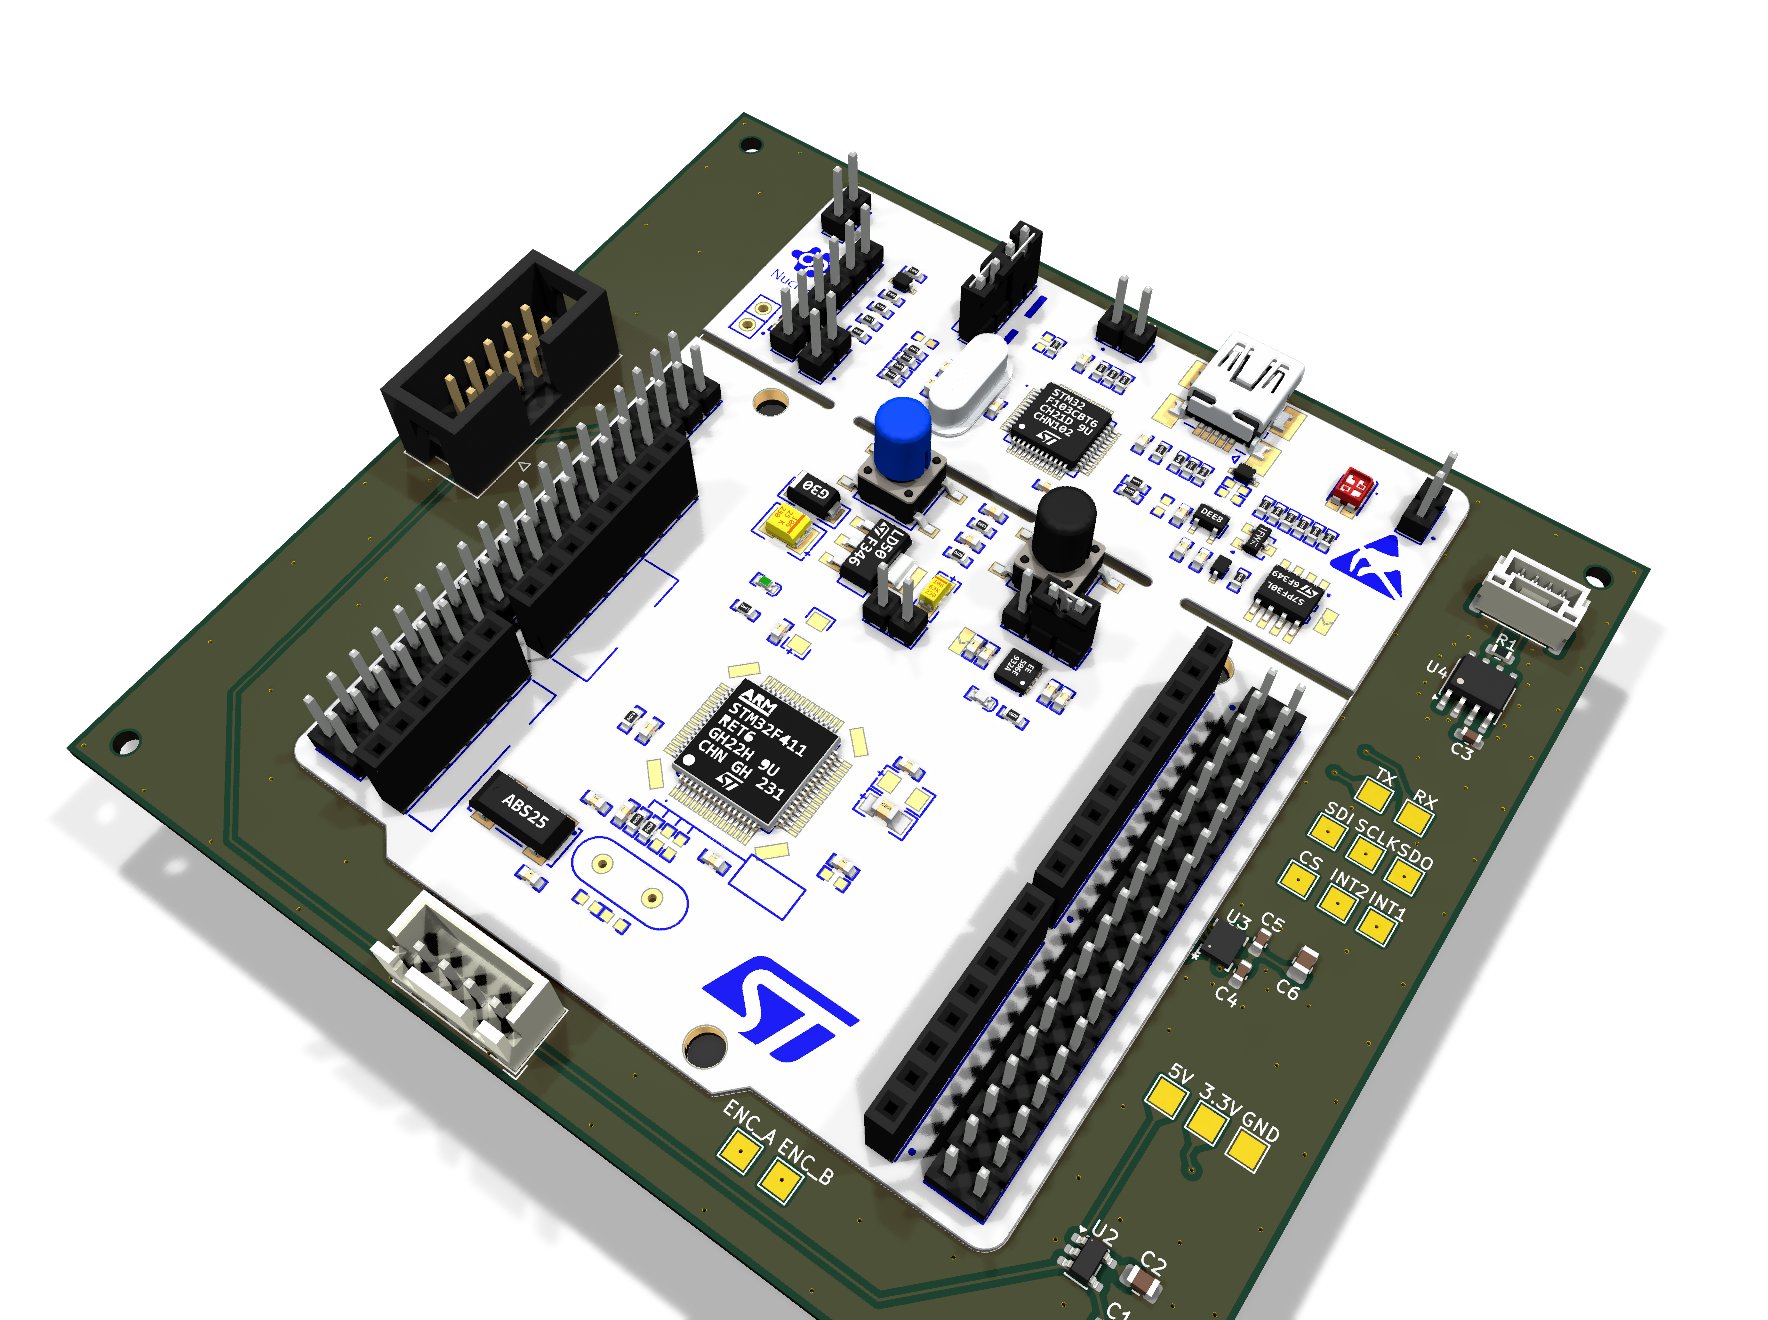
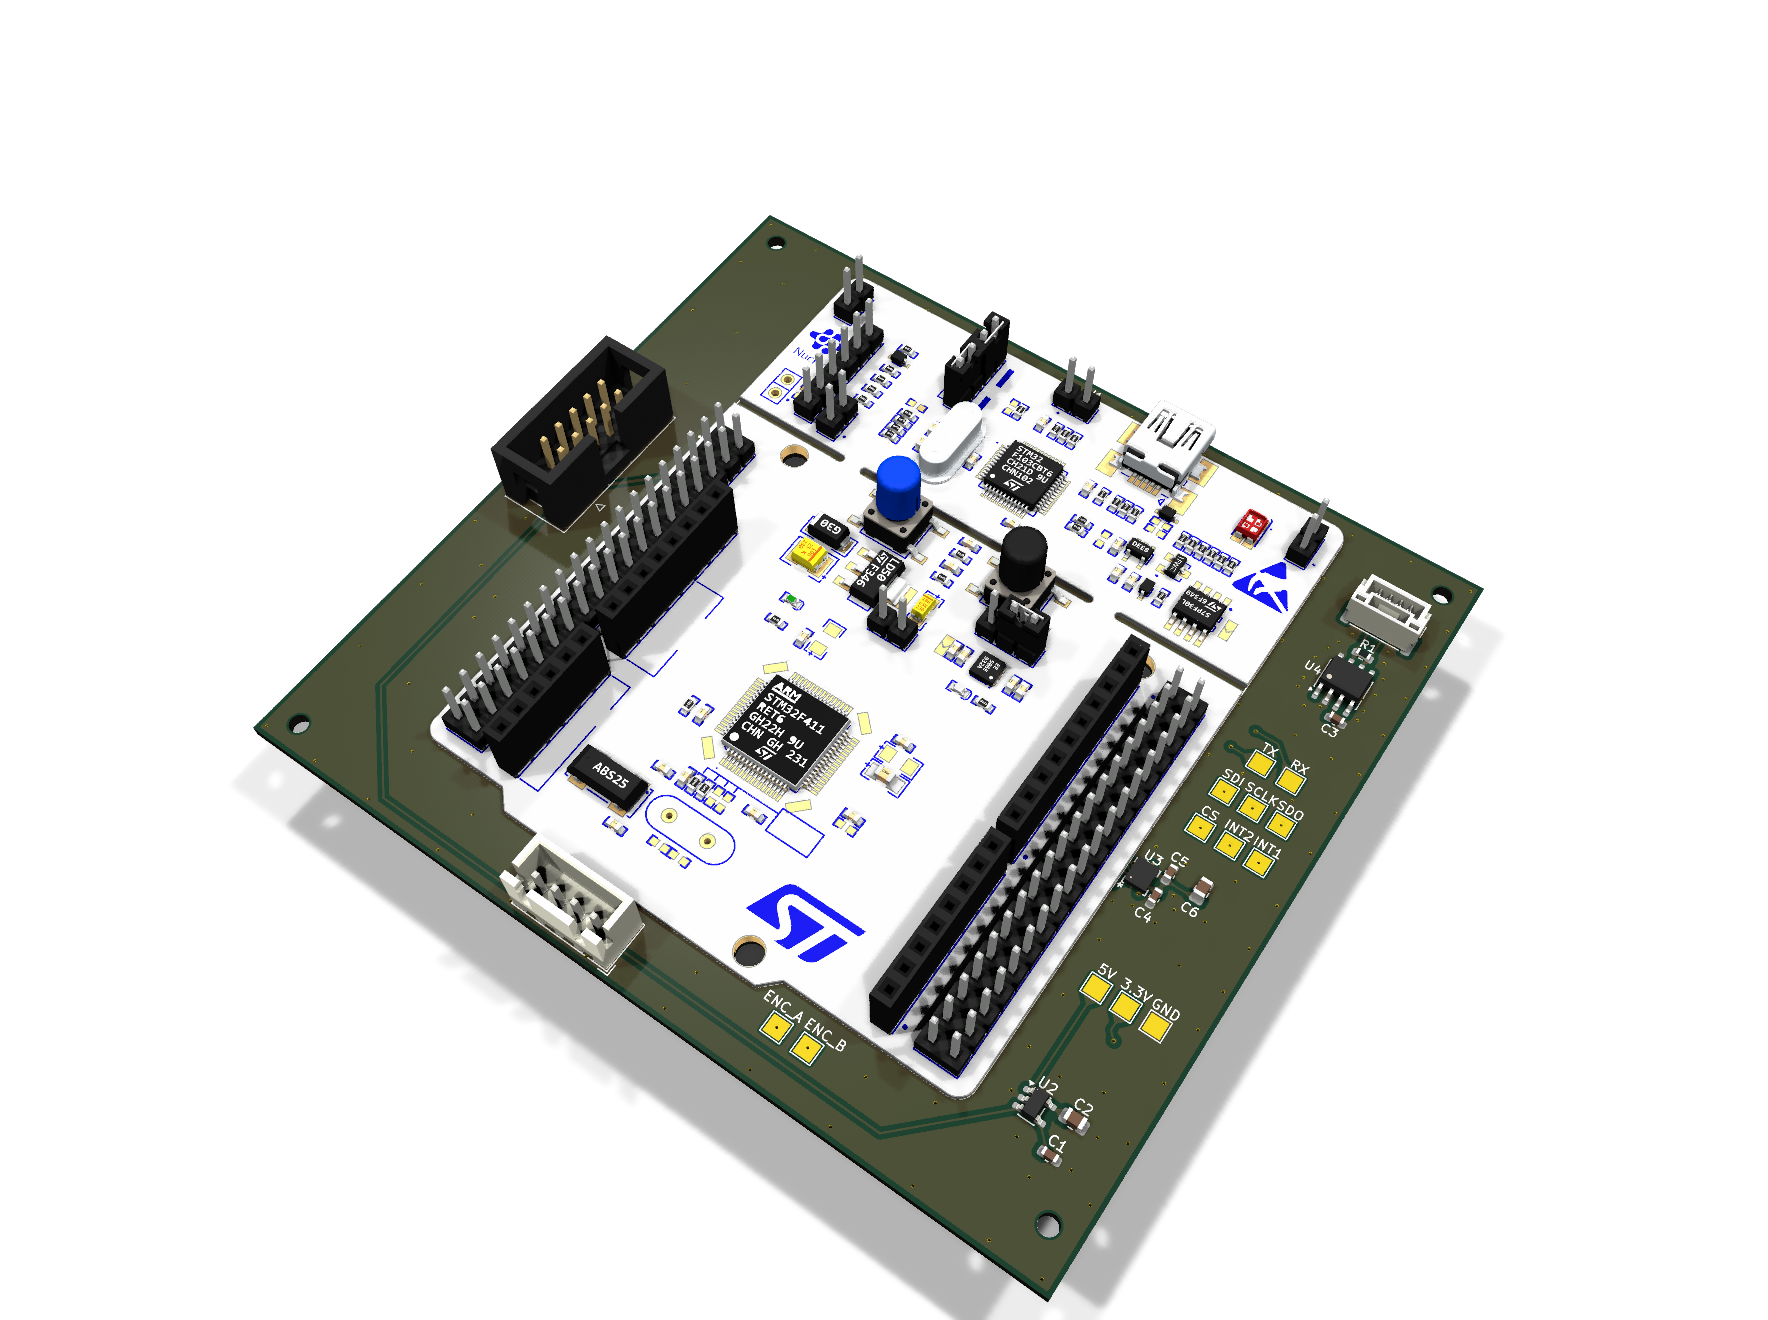
Zoom out isometric renders to fit the full boards

diff --git a/docs/regenerate-images.md b/docs/regenerate-images.md
@@ -14,7 +14,7 @@ project folder under `hardware/`.
 ## 3D renders
 
     kicad-cli pcb render -o docs/$N-iso.png --quality high --perspective \
-      --rotate '-30,0,-35' --zoom 0.9 --width 1800 --height 1350 \
+      --rotate '-30,0,-35' --zoom 0.7 --width 1800 --height 1350 \
       --background transparent hardware/$B/$B.kicad_pcb
 
     kicad-cli pcb render -o docs/$N-top.png --side top --quality high \
